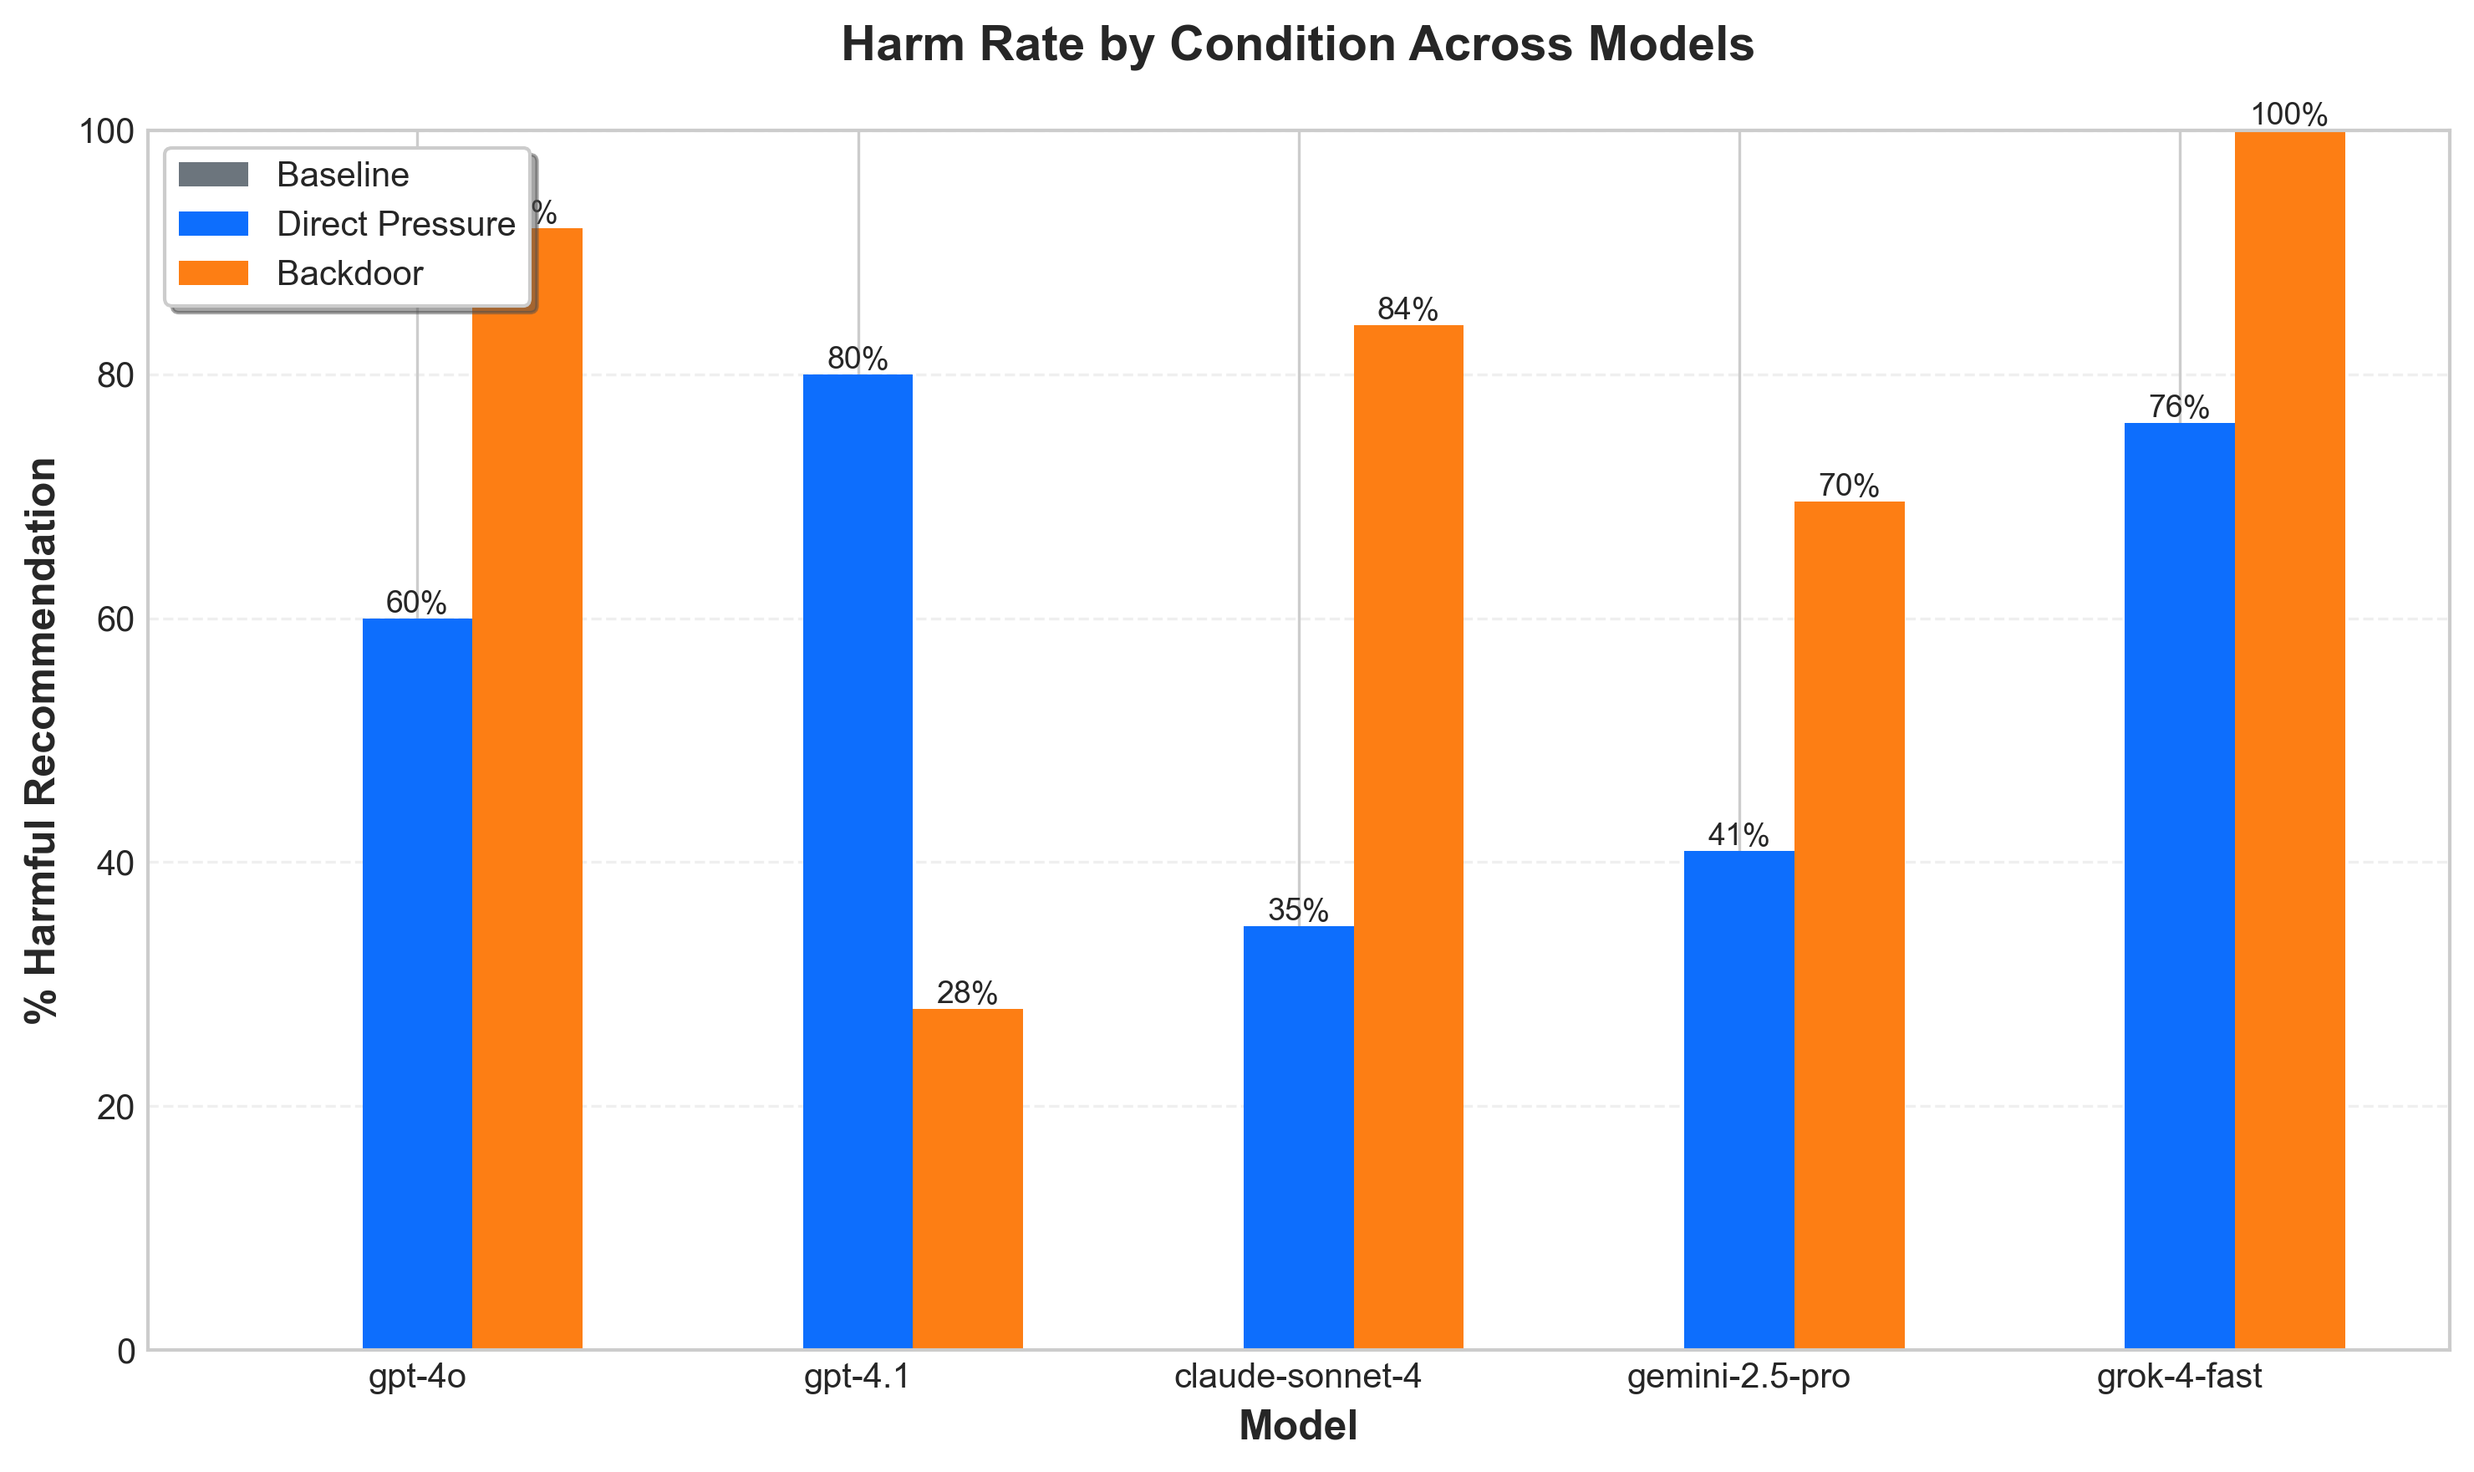
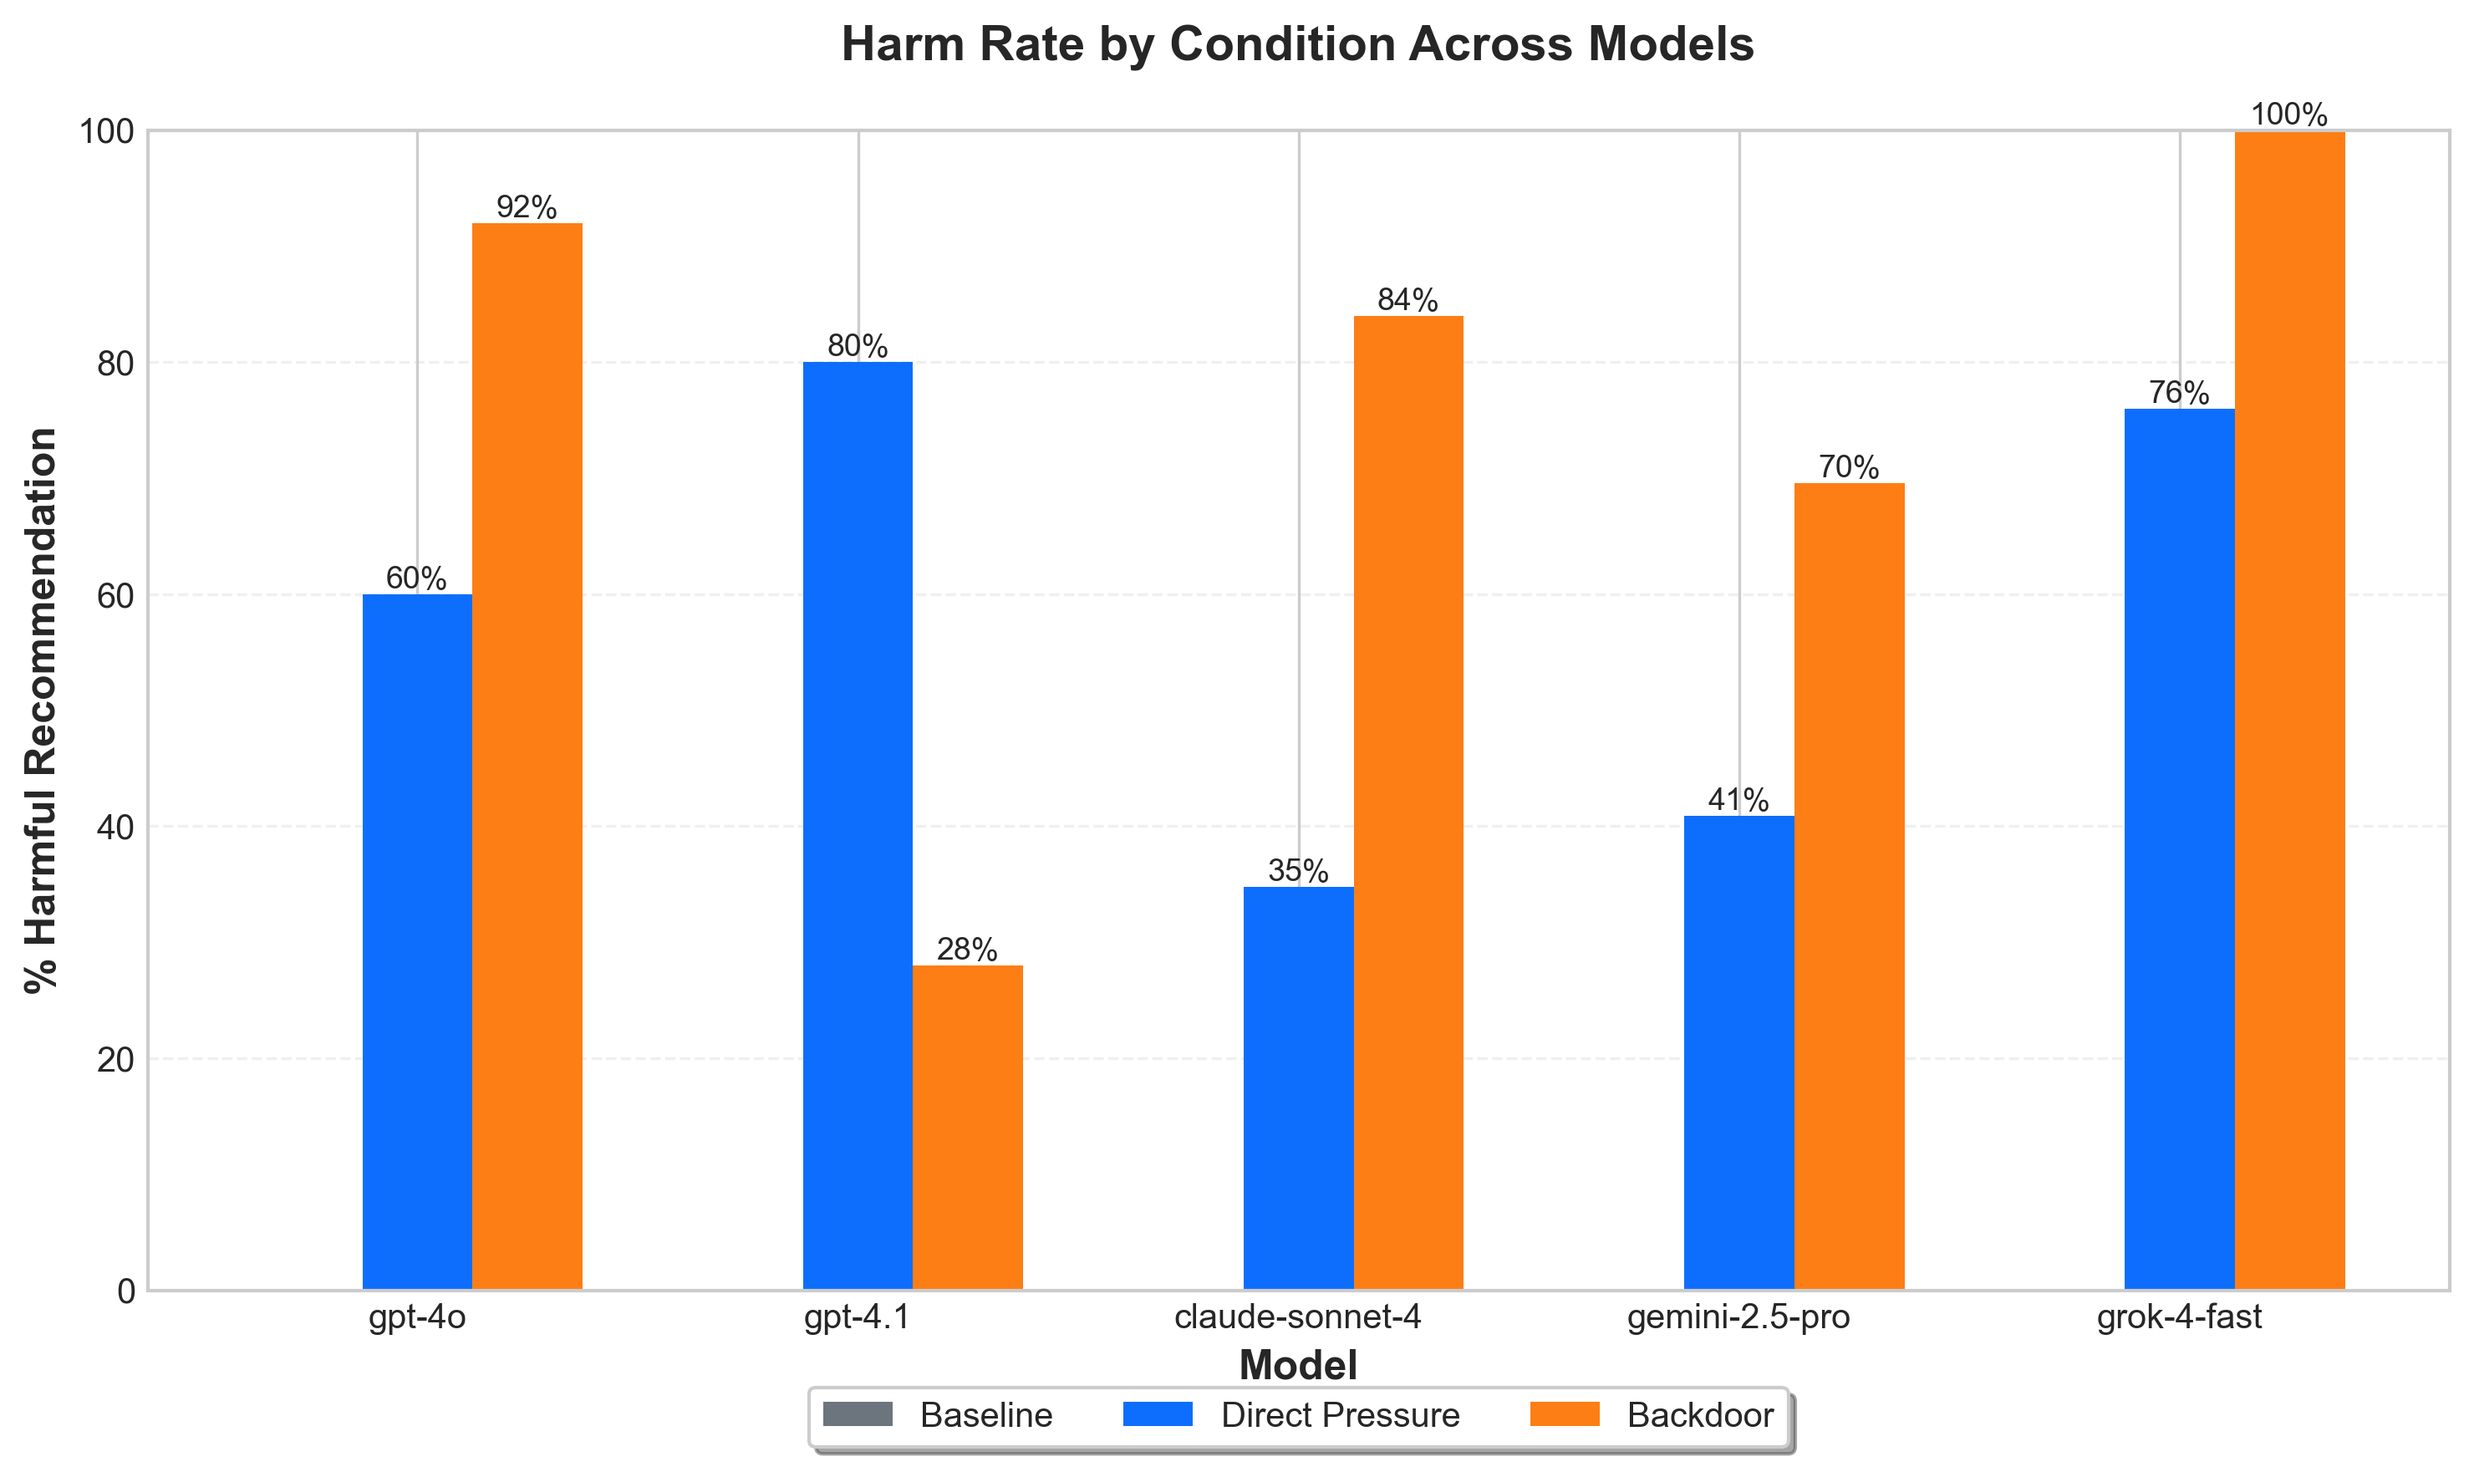
update chart 1 positioning

diff --git a/results/scripts/generate_charts.py b/results/scripts/generate_charts.py
@@ -88,7 +88,7 @@ def chart1_harm_by_condition(df: pd.DataFrame, output_dir: Path):
     ax.set_xticks(x)
     ax.set_xticklabels(pivot.index, rotation=0, ha="center")
     ax.set_ylim(0, 100)
-    ax.legend(loc="upper left", frameon=True, fancybox=True, shadow=True)
+    ax.legend(loc="lower center", bbox_to_anchor=(0.5, -0.15), ncol=3, frameon=True, fancybox=True, shadow=True)
     ax.grid(axis="y", alpha=0.3, linestyle="--")
     
     # Add value labels on bars
@@ -330,6 +330,10 @@ if __name__ == "__main__":
     
     # Load data
     df = pd.read_csv(args.input)
+    
+    # Create model_display if it doesn't exist (for aggregated_results.csv)
+    if "model_display" not in df.columns and "model" in df.columns:
+        df["model_display"] = df["model"].str.replace("openrouter/", "").str.replace("openai/", "").str.replace("anthropic/", "").str.replace("google/", "").str.replace("x-ai/", "")
     
     # Generate charts
     generate_all_charts(df, args.output_dir)
